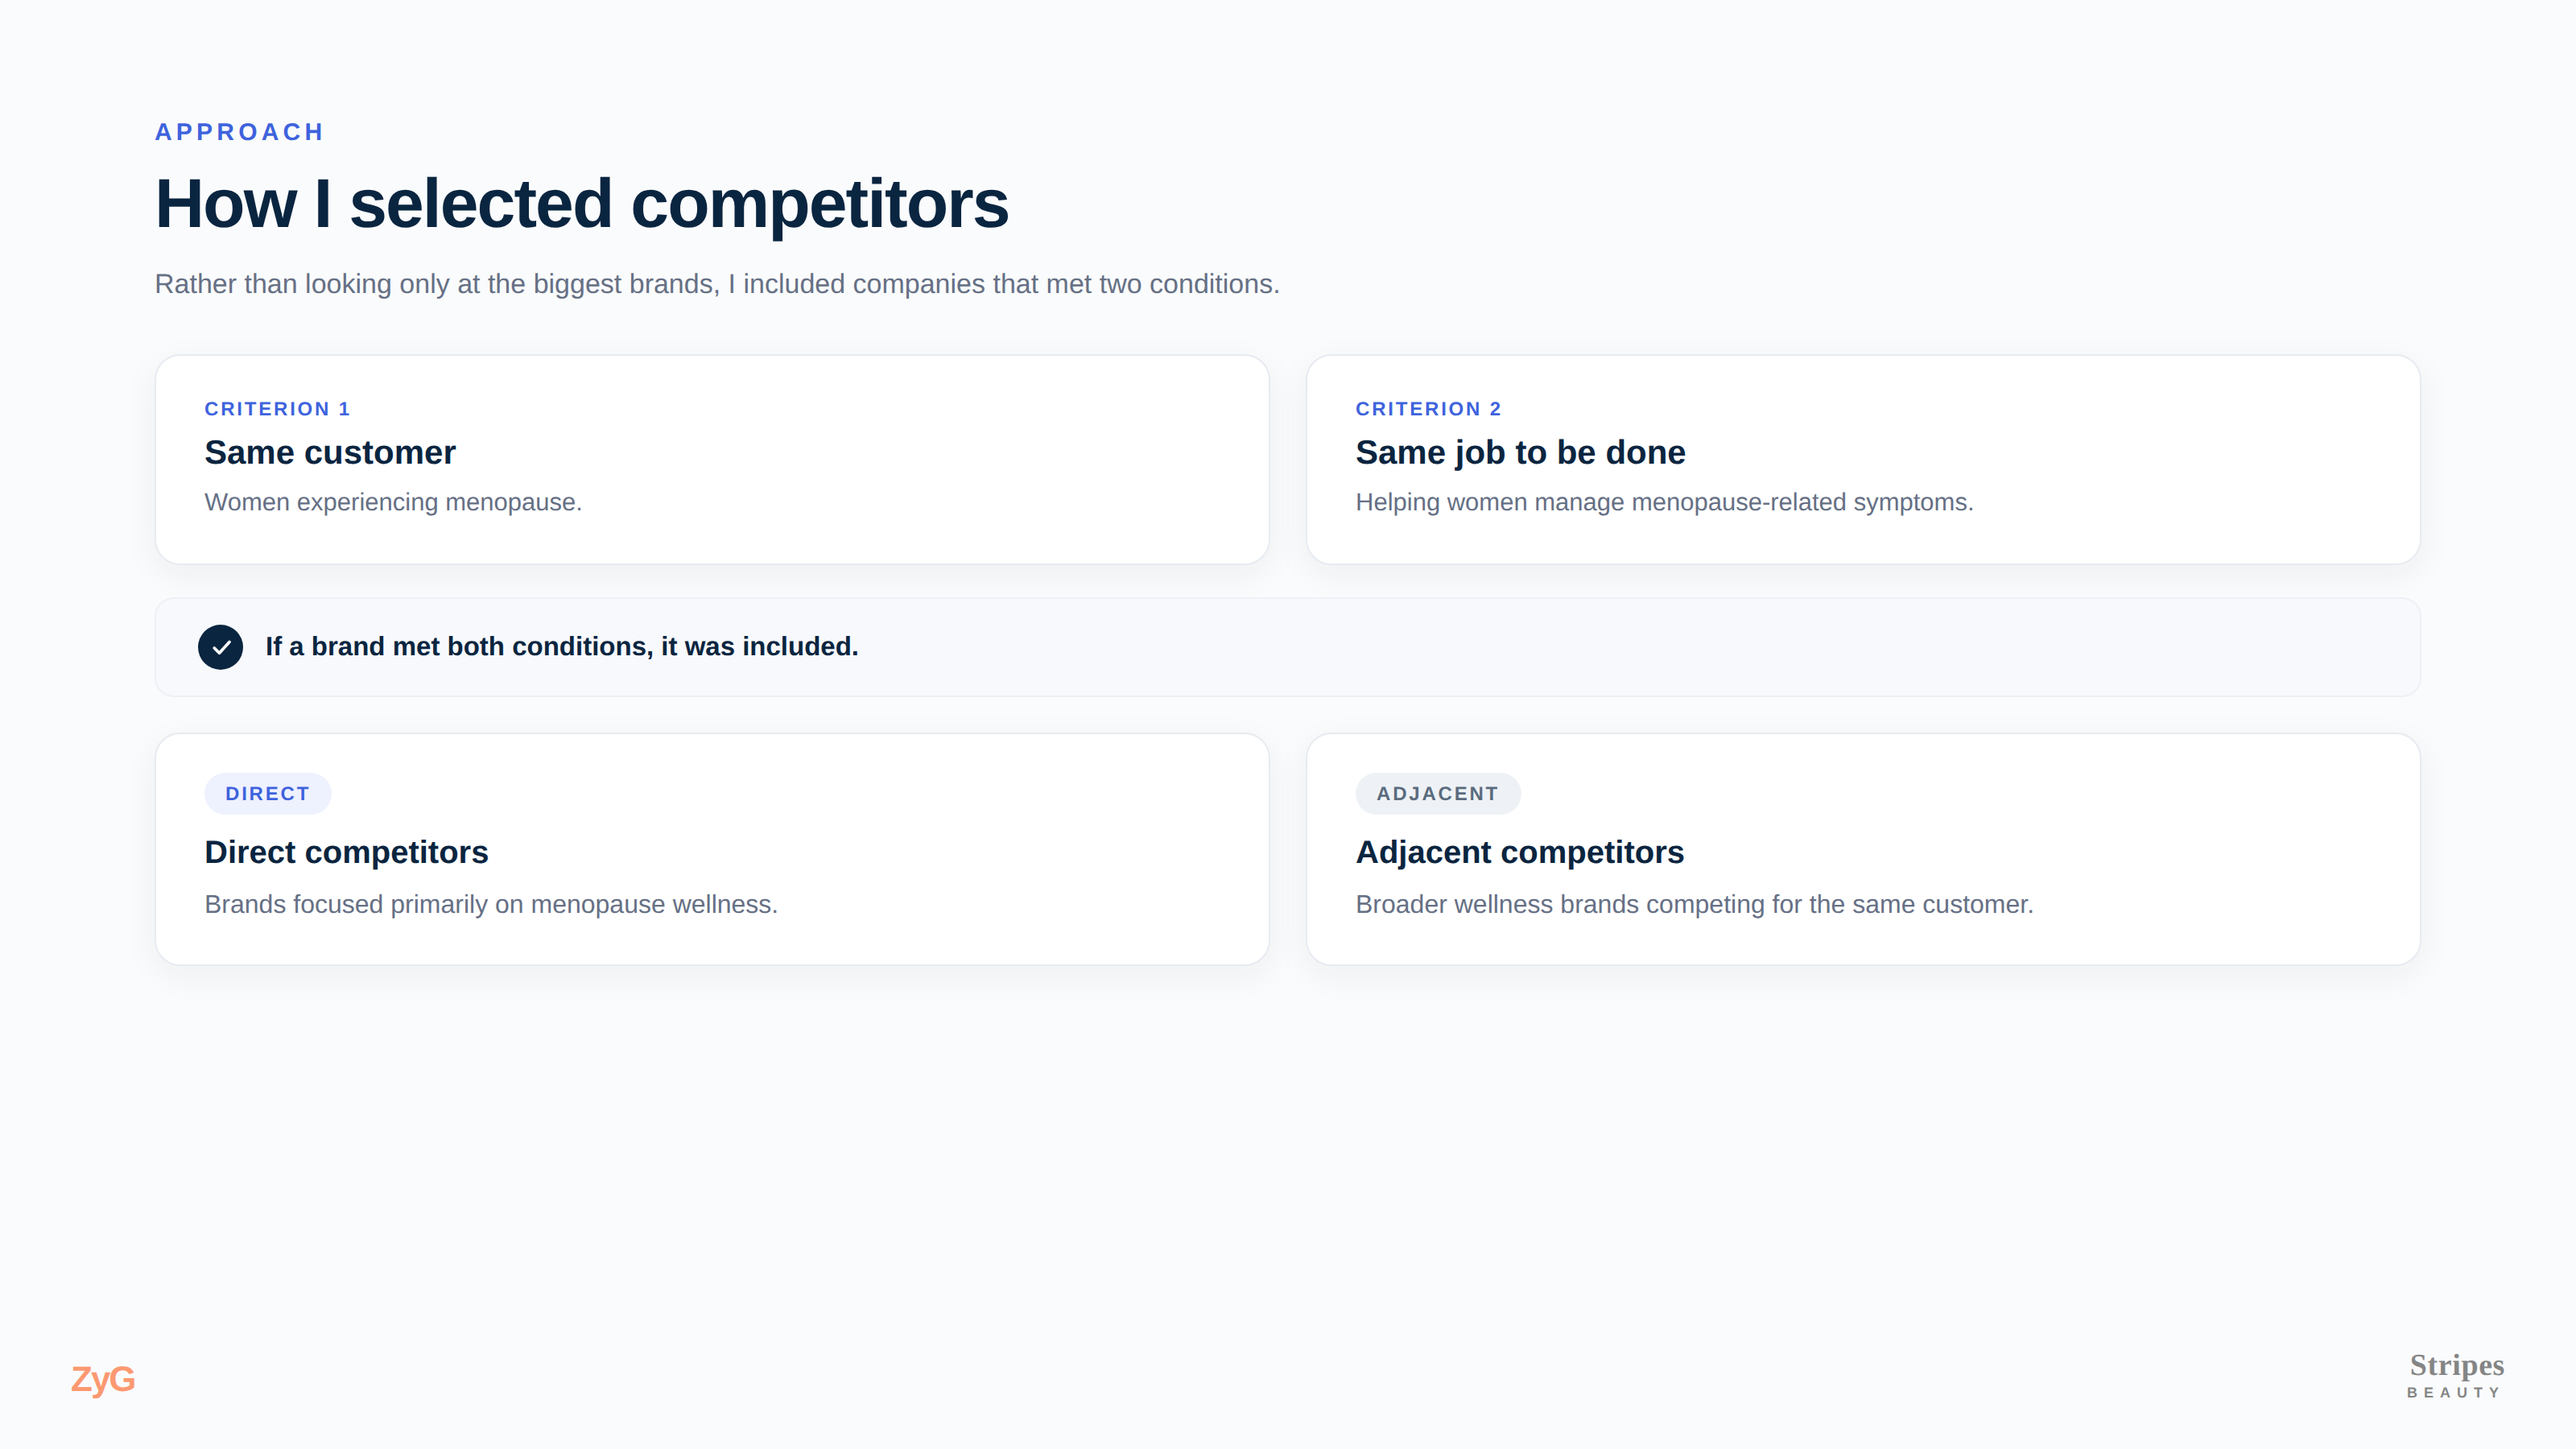
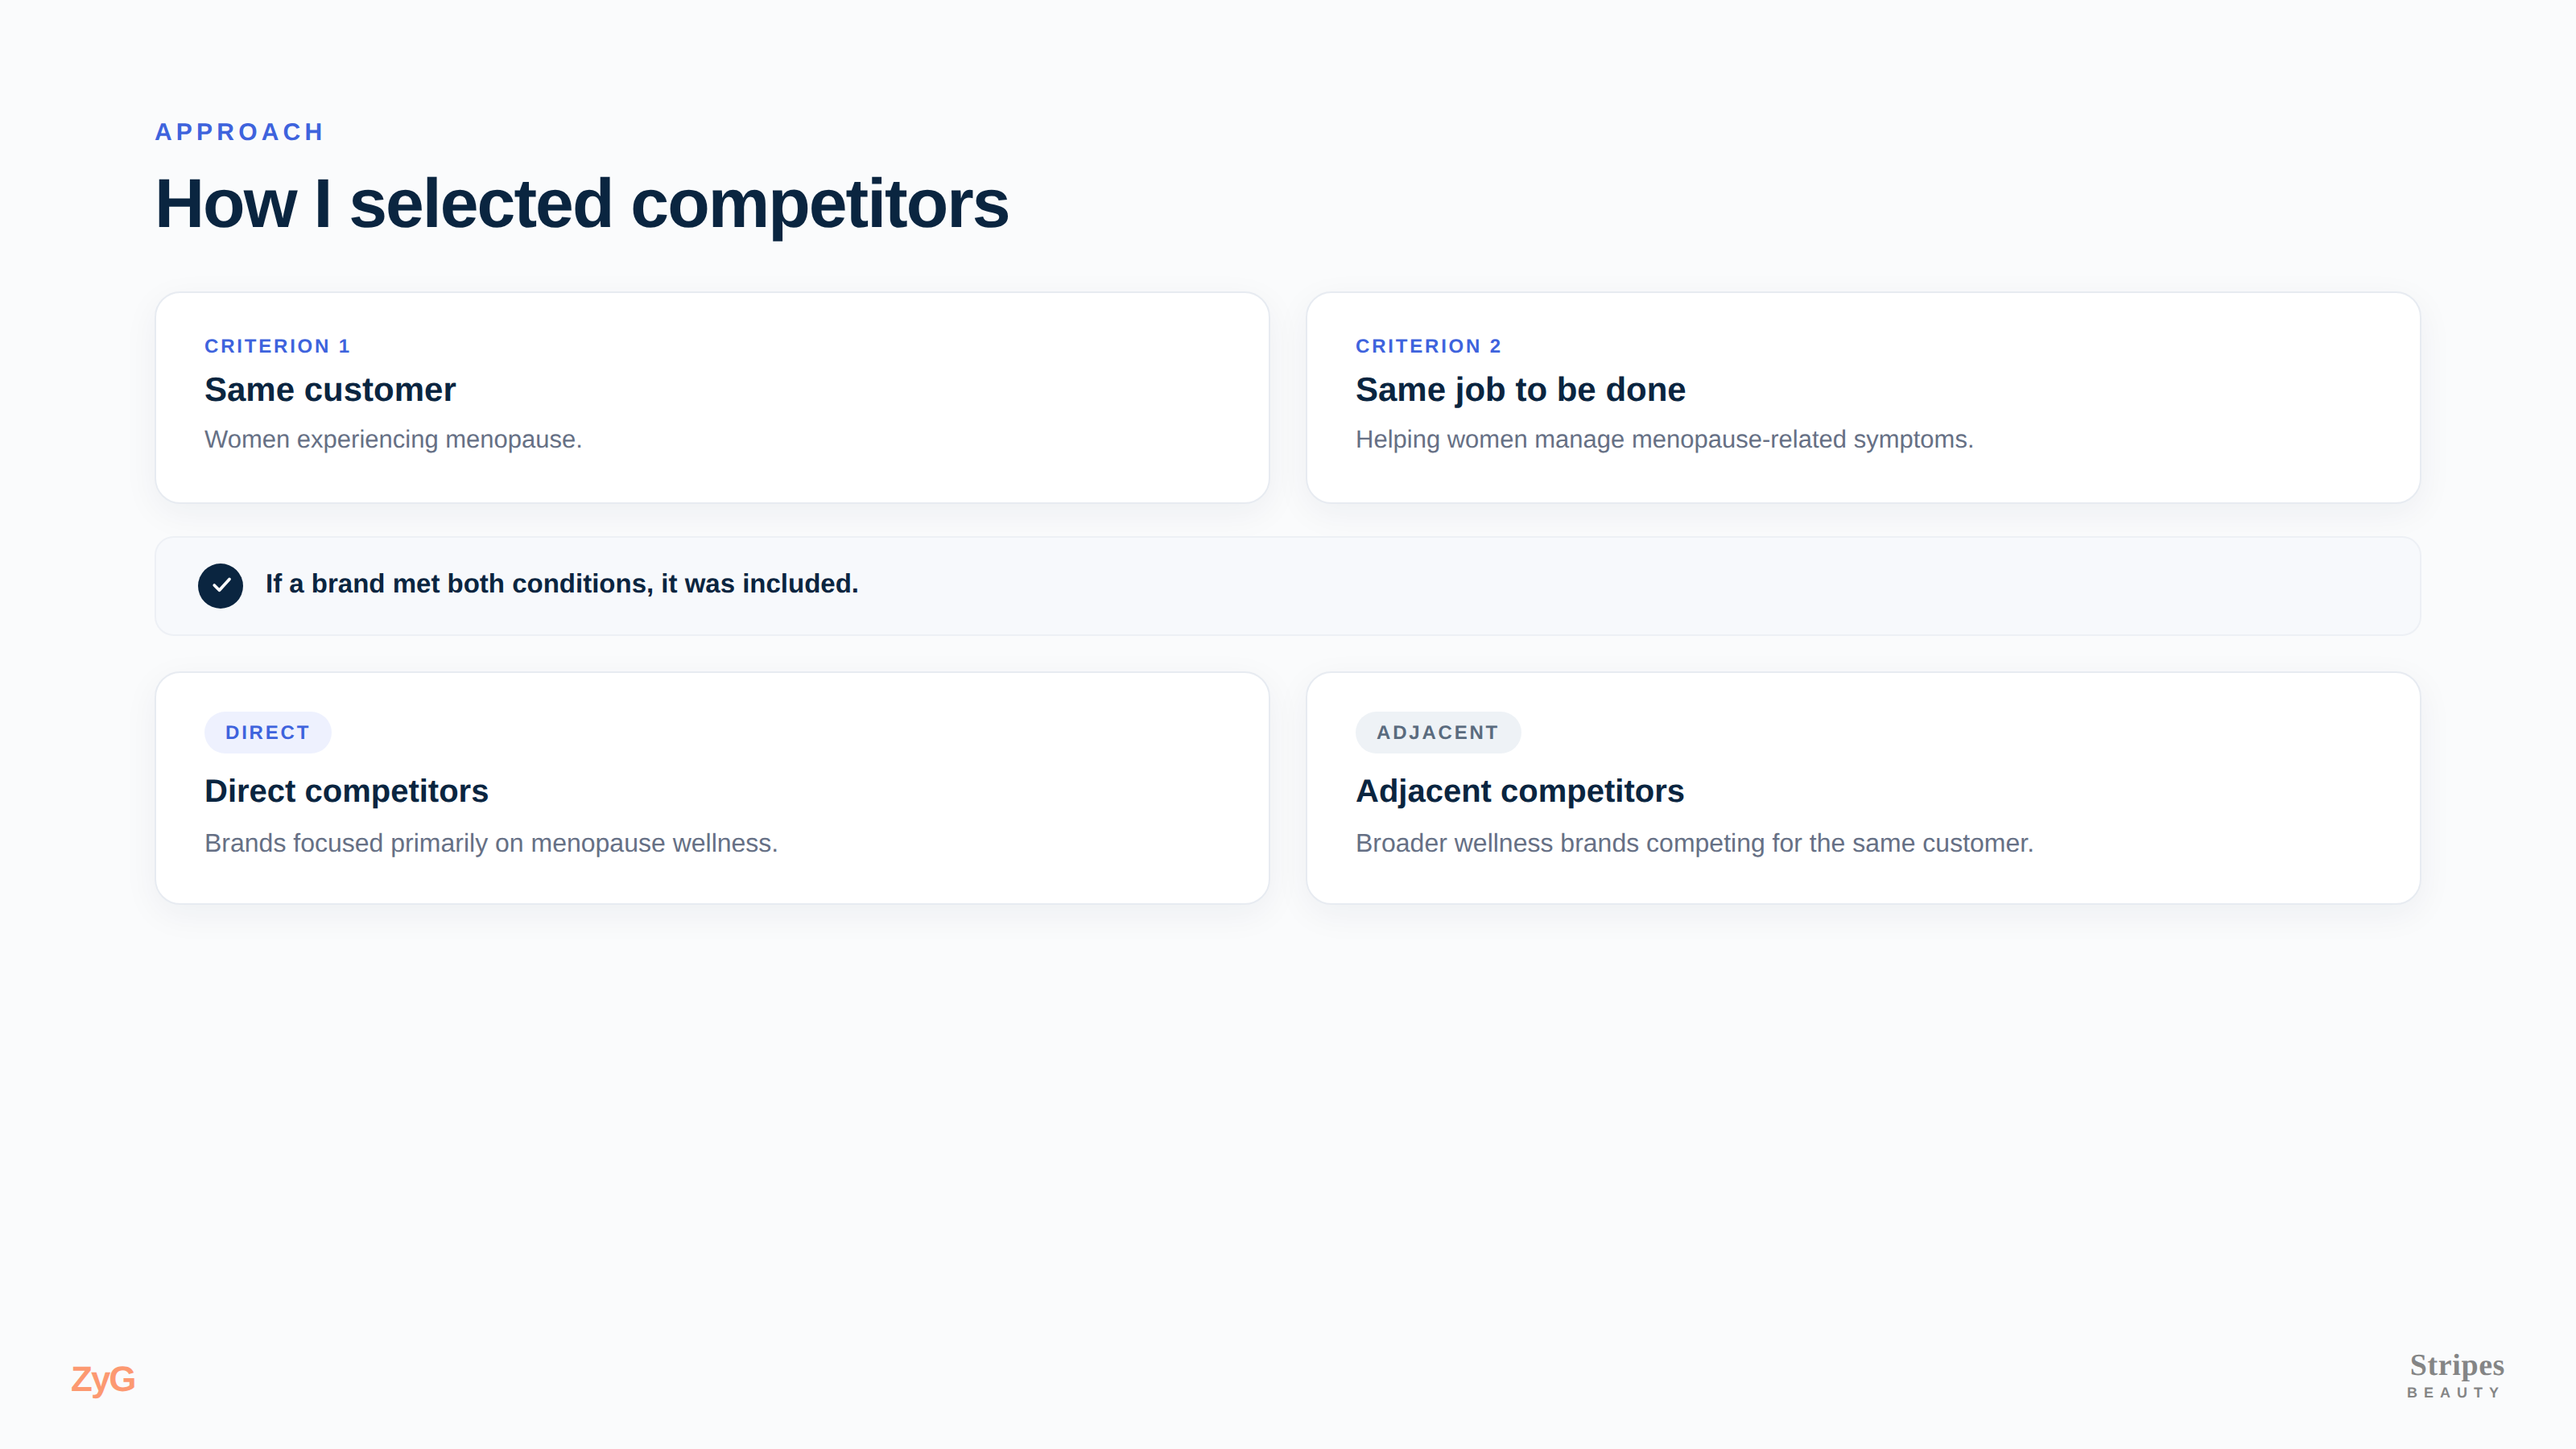
Part 1 micro-copy: drop 'who are', remove slide 3 intro line, retitle takeaway 1
Claude-Session: https://claude.ai/code/session_01GoAG3ySswQXo2H1hh5EwTk

diff --git a/diagrams/slides/p1-02-market.html b/diagrams/slides/p1-02-market.html
@@ -38,7 +38,7 @@
 
     <div class="col card">
       <div class="cap">The customer</div>
-      <div class="clead">Women experiencing peri- or post-menopause who are looking for:</div>
+      <div class="clead">Women experiencing peri- or post-menopause looking for:</div>
       <div class="rowlist">
         <div class="rl"><span class="dot"></span><div class="t">Everyday wellness support</div></div>
         <div class="rl"><span class="dot"></span><div class="t">Non-hormonal solutions</div></div>

diff --git a/diagrams/slides/p1-05-learned.html b/diagrams/slides/p1-05-learned.html
@@ -18,7 +18,7 @@
   <div class="row3">
     <div class="c card">
       <div class="n">01</div>
-      <h3>The customer matters more than the category</h3>
+      <h3>Customer fit matters more than category fit</h3>
       <p>The closest competitors aren't always menopause brands. They're the brands solving similar problems for the same customer.</p>
     </div>
     <div class="c card">

diff --git a/diagrams/slides/p1-03-framework.html b/diagrams/slides/p1-03-framework.html
@@ -22,7 +22,6 @@
 <div class="slide">
   <div class="kicker">Approach</div>
   <div class="h1">How I selected competitors</div>
-  <div class="lead" style="font-size:17px;">Rather than looking only at the biggest brands, I included companies that met two conditions.</div>
 
   <div class="qrow">
     <div class="q card">
